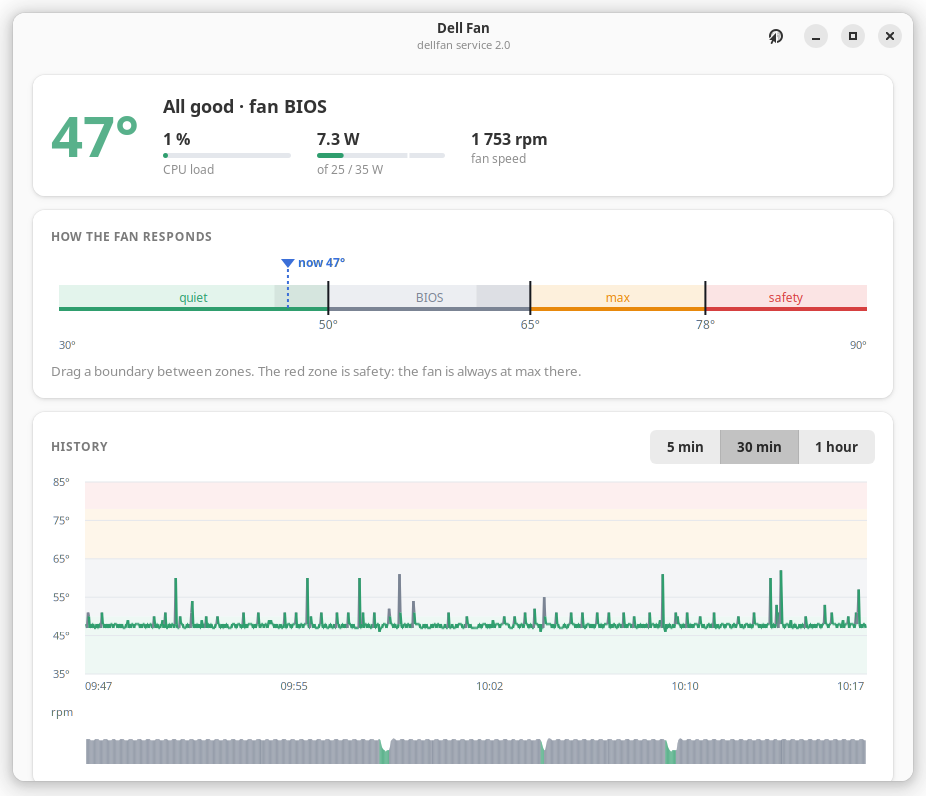
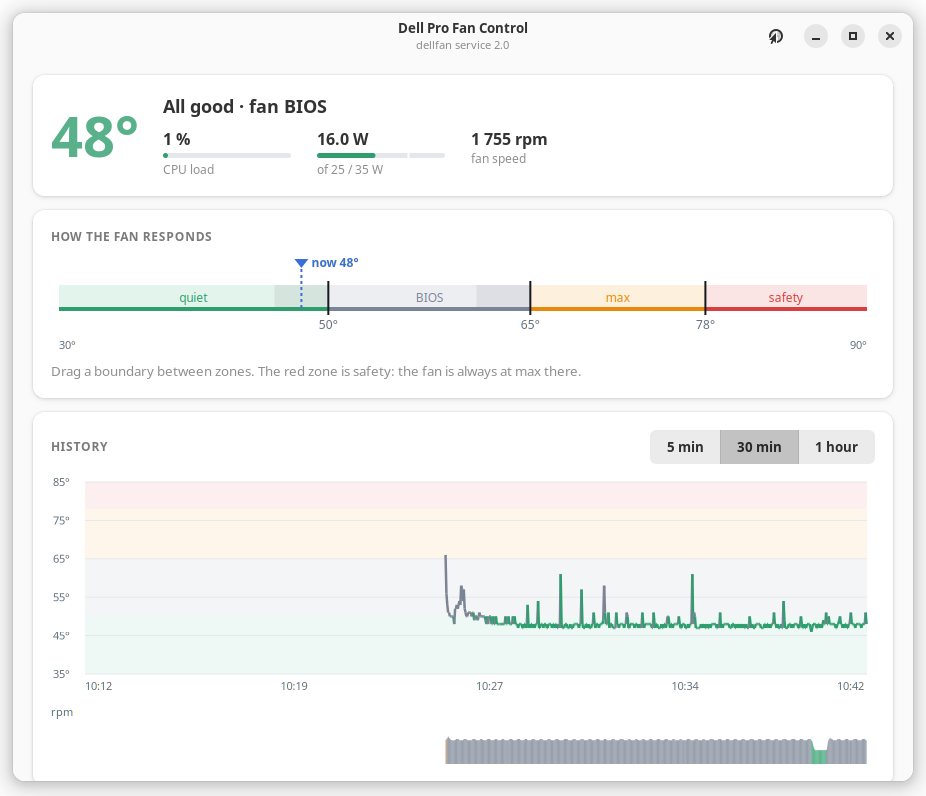
Rename to Dell Pro Fan Control (repository dell-pro-fancontrol)
"dellfan" is already used by other GitHub projects for Dell laptops and servers.
Public name, README titles, app title and menu entry change; the service inside
keeps the short name dellfan (unit, /opt/dellfan, group). README notes that the
project is unofficial and not affiliated with Dell Inc.

diff --git a/app/dellfan-gui.py b/app/dellfan-gui.py
@@ -1,6 +1,6 @@
 #!/usr/bin/env python3
 # SPDX-License-Identifier: GPL-2.0-or-later
-"""Dell Fan — desktop app (GTK 4 + libadwaita) for the dellfan service.
+"""Dell Pro Fan Control — desktop app (GTK 4 + libadwaita) for the dellfan service.
 
 Talks to the service over /run/dellfan/dellfan.sock (needs membership in the
 "dellfan" group) or, as a fallback, over the web API on 127.0.0.1:8095.
@@ -20,7 +20,7 @@ T0, T1 = 30, 90
 # ---------------------------------------------------------------- texts
 RU = (locale.getlocale()[0] or os.environ.get("LANG", "")).lower().startswith("ru")
 TXT = {
-    "title": ("Вентилятор Dell", "Dell Fan"),
+    "title": ("Вентилятор Dell", "Dell Pro Fan Control"),
     "conn_ok": ("служба dellfan %s", "dellfan service %s"),
     "conn_bad": ("нет связи со службой", "service not reachable"),
     "no_access": ("Нет доступа к службе", "No access to the service"),

diff --git a/README.md b/README.md
@@ -1,10 +1,10 @@
-# dellfan — fan curve and CPU power limit for Dell desktops on Linux
+# Dell Pro Fan Control — fan curve and CPU power limit for Dell desktops on Linux
 
 **English** · [Русский](README.ru.md)
 
 On some new Dell desktops the BIOS keeps the fan at ~1750 rpm and Linux has no way to change it:
 the kernel driver `dell-smm-hwmon` only allows manual fan control on models from its whitelist.
-**dellfan** adds the model to that whitelist (a small DKMS driver patch) and runs a service with a
+**Dell Pro Fan Control** adds the model to that whitelist (a small DKMS driver patch) and runs a service with a
 temperature curve, a hard safety limit and optional CPU power limits — with a desktop app and a web page.
 
 | Desktop app (GTK 4) | Web page |
@@ -14,6 +14,10 @@ temperature curve, a hard safety limit and optional CPU power limits — with a 
 > **Status:** tested on one model only — **Dell Pro Micro Plus QBM1250** (BIOS 1.18.2,
 > Ubuntu 24.04, kernel 6.17 OEM). It changes how your hardware is cooled. Use at your own risk
 > and read [Safety](#safety) first.
+
+Inside, the service is called `dellfan` (systemd unit, `/opt/dellfan`, group `dellfan`).
+
+> Unofficial project, not affiliated with or endorsed by Dell Inc. "Dell" and "Dell Pro" are trademarks of Dell Inc.
 
 ## What it does
 
@@ -51,8 +55,8 @@ The app and the web page never touch the hardware: all decisions are made by the
 ## Install
 
 ```sh
-git clone https://github.com/SerJo-32/dellfan.git
-cd dellfan
+git clone https://github.com/SerJo-32/dell-pro-fancontrol.git
+cd dell-pro-fancontrol
 sudo ./install.sh
 ```
 
@@ -62,7 +66,7 @@ The installer:
 2. downloads `dell-smm-hwmon.c` for your kernel series from kernel.org, applies the patch from
    [`driver/`](driver/) and builds it with DKMS (rebuilt automatically on kernel updates);
 3. installs the service to `/opt/dellfan`, creates the `dellfan` group, enables `dellfan.service`;
-4. installs the app ("Dell Fan" in the menu) and adds you to the `dellfan` group.
+4. installs the app ("Dell Pro Fan Control" in the menu) and adds you to the `dellfan` group.
 
 Options: `--no-gui` (servers), `--no-driver` (your kernel already supports fan control on your model),
 `--force` (skip the model check).
@@ -81,7 +85,7 @@ This happens once. Later kernel updates are signed automatically.
 
 ## Use
 
-- **App:** "Dell Fan" in the applications menu (log out and back in once after installing,
+- **App:** "Dell Pro Fan Control" in the applications menu (log out and back in once after installing,
   so the `dellfan` group membership applies).
 - **Web page:** <http://127.0.0.1:8095> on the computer itself.
   To reach it from your network, put a reverse proxy in front of it or change `DELLFAN_HOST`

diff --git a/README.ru.md b/README.ru.md
@@ -1,10 +1,10 @@
-# dellfan — кривая вентилятора и лимит мощности процессора для настольных Dell под Linux
+# Dell Pro Fan Control — кривая вентилятора и лимит мощности процессора для настольных Dell под Linux
 
 [English](README.md) · **Русский**
 
 На некоторых новых настольных Dell BIOS держит вентилятор на ~1750 об/мин, и из Linux это не
 изменить: драйвер ядра `dell-smm-hwmon` разрешает ручное управление только моделям из своего
-белого списка. **dellfan** добавляет модель в этот список (небольшая правка драйвера через DKMS)
+белого списка. **Dell Pro Fan Control** добавляет модель в этот список (небольшая правка драйвера через DKMS)
 и запускает службу с температурной кривой, жёстким защитным порогом и, по желанию, лимитом
 мощности процессора. Управление — из приложения или с веб-страницы.
 
@@ -15,6 +15,10 @@
 > **Состояние:** проверено только на одной модели — **Dell Pro Micro Plus QBM1250** (BIOS 1.18.2,
 > Ubuntu 24.04, ядро 6.17 OEM). Программа меняет охлаждение вашего железа — используйте на свой
 > риск и сначала прочитайте раздел [Безопасность](#безопасность).
+
+Внутри служба называется `dellfan` (systemd, `/opt/dellfan`, группа `dellfan`).
+
+> Неофициальный проект, не связан с Dell Inc. и не одобрен ею. «Dell» и «Dell Pro» — товарные знаки Dell Inc.
 
 ## Что умеет
 
@@ -52,8 +56,8 @@
 ## Установка
 
 ```sh
-git clone https://github.com/SerJo-32/dellfan.git
-cd dellfan
+git clone https://github.com/SerJo-32/dell-pro-fancontrol.git
+cd dell-pro-fancontrol
 sudo ./install.sh
 ```
 

diff --git a/CHANGELOG.md b/CHANGELOG.md
@@ -2,7 +2,8 @@
 
 ## 2.0 — 2026-10-10
 
-First public release.
+First public release, as **Dell Pro Fan Control** (repository `dell-pro-fancontrol`;
+the service inside keeps the short name `dellfan`).
 
 - Driver: `dell-smm-hwmon` with Dell Pro Micro Plus QBM1250 in the fan-control whitelist (DKMS),
   source fetched from kernel.org stable for the running kernel series.
